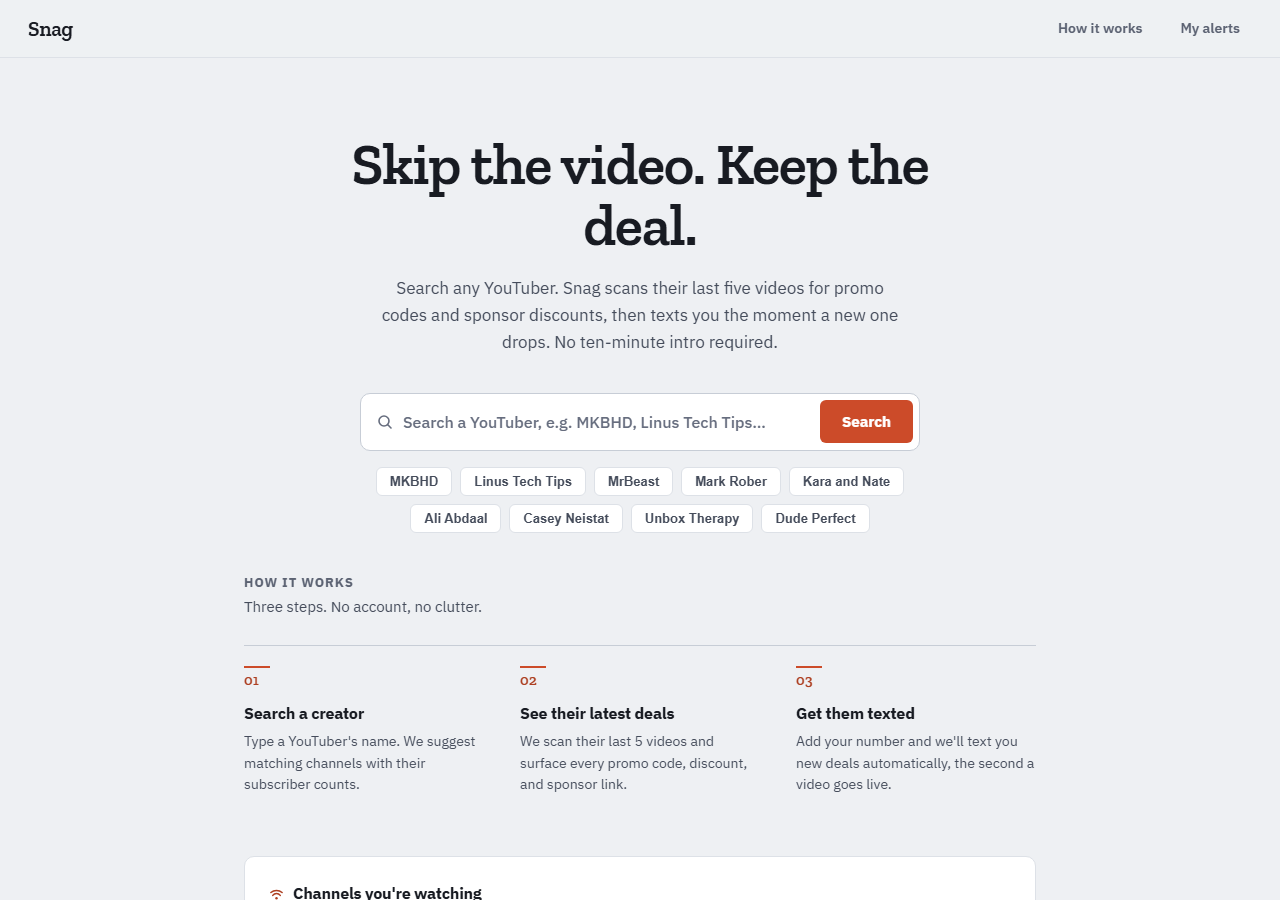
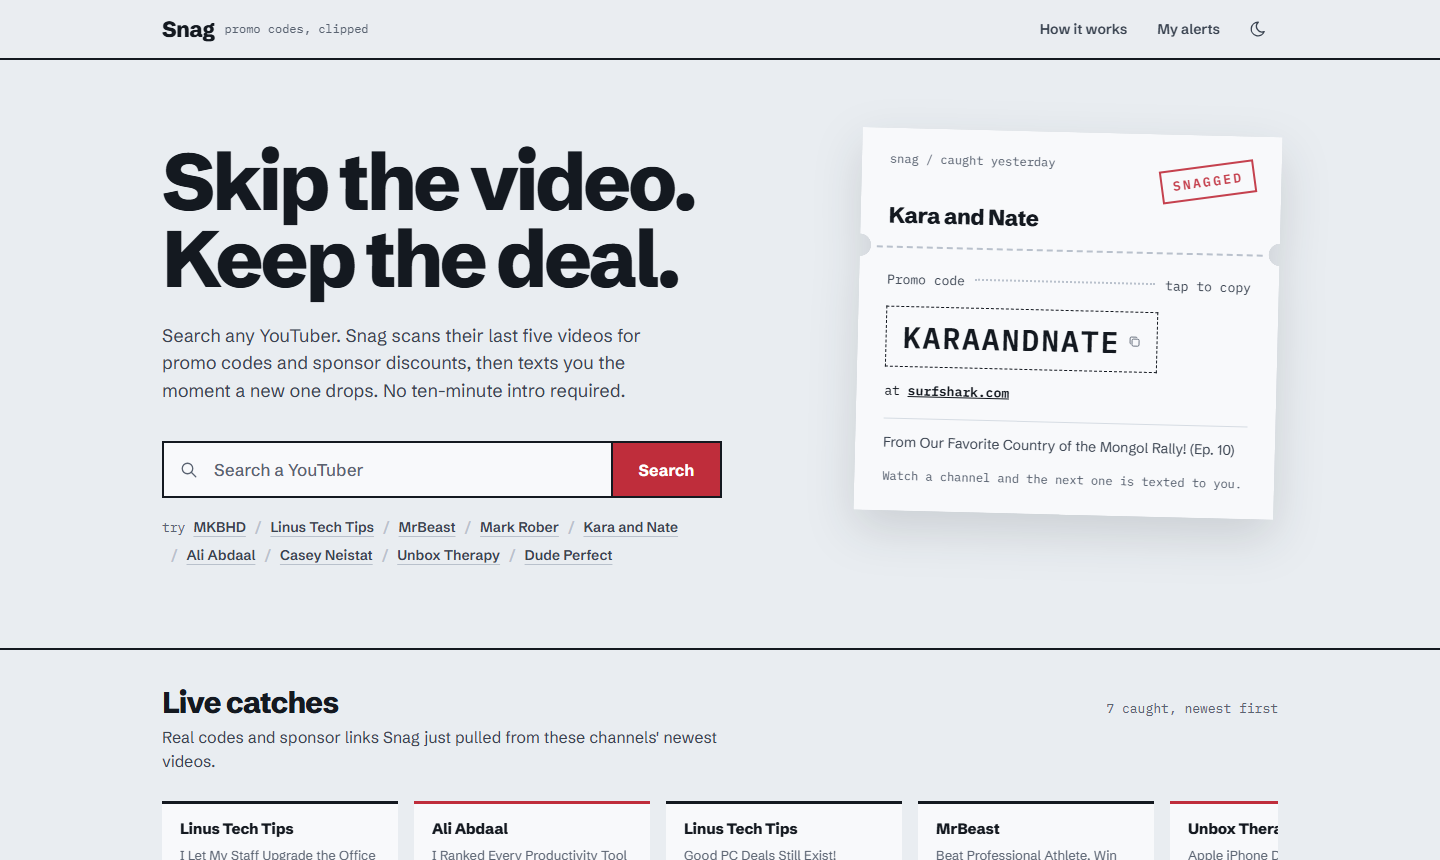
Default to light theme with an opt-in dark toggle; add README screenshots
Dark mode no longer follows the OS setting. A moon/sun button in the nav
switches it and the choice is saved in localStorage. The README gets a
screenshot gallery of the redesigned page.

diff --git a/public/index.html b/public/index.html
@@ -38,29 +38,8 @@
     --ease:cubic-bezier(.2,.8,.2,1);
     color-scheme:light;
   }
-  @media(prefers-color-scheme:dark){:root:not([data-theme="light"]){
-    --paper:#0d1014;
-    --sheet:#171b21;
-    --ink:#e3e7ec;
-    --ink2:#b2bbc6;
-    --muted:#939dab;
-    --rule:#3a4350;
-    --rule-soft:#272e37;
-    --stamp:#f0717c;
-    --stamp-fill:#c22f3d;
-    --stamp-press:#a8283a;
-    --on-stamp:#fff;
-    --good:#6cc596;
-    --good-fill:#2f8a5c;
-    --on-good:#fff;
-    --warn:#e3b55a;
-    --bad:#f08a95;
-    --shadow:0 0 0 1px rgba(160,175,195,.07),0 18px 36px -14px rgba(0,0,0,.7);
-    --toast-bg:#e3e7ec;
-    --toast-ink:#0d1014;
-    --nav-bg:rgba(13,16,20,.92);
-    color-scheme:dark;
-  }}
+  /* Light is the default for everyone. Dark only applies when the visitor
+     picks it with the nav toggle (saved in localStorage as snagTheme). */
   :root[data-theme="dark"]{
     --paper:#0d1014;
     --sheet:#171b21;
@@ -111,6 +90,11 @@
   .brand-tag{font-family:var(--mono);font-size:12px;color:var(--muted)}
   .nav-link{font-size:14px;font-weight:600;color:var(--ink2);text-decoration:none;padding:8px 12px;transition:color .15s}
   .nav-link:hover{color:var(--stamp);text-decoration:underline;text-underline-offset:4px}
+  .theme-btn{display:inline-flex;align-items:center;justify-content:center;width:40px;height:40px;background:none;border:0;color:var(--ink2);cursor:pointer;transition:color .15s}
+  .theme-btn:hover{color:var(--stamp)}
+  .theme-btn .sun,[data-theme="dark"] .theme-btn .moon{display:none}
+  [data-theme="dark"] .theme-btn .sun{display:block}
+  @media (pointer:coarse){.theme-btn{width:44px;height:44px}}
 
   /* HERO: asymmetric. Words and the search on the left; on the right, a real
      coupon Snag pulled from a real video description. */
@@ -519,6 +503,7 @@
     .hist-group-vid,.hist-group-vid:visited{padding-block:10px;margin-block:-4px -10px}
   }
 </style>
+<script>try{if(localStorage.getItem("snagTheme")==="dark")document.documentElement.dataset.theme="dark"}catch{}</script>
 </head>
 <body>
 
@@ -529,7 +514,19 @@
   </a>
   <a class="nav-link" href="#how">How it works</a>
   <a class="nav-link" href="#watched">My alerts</a>
+  <button type="button" class="theme-btn" id="themeBtn" aria-label="Dark mode" aria-pressed="false">
+    <svg class="moon" width="18" height="18" viewBox="0 0 24 24" fill="none" stroke="currentColor" stroke-width="1.75" stroke-linecap="round" stroke-linejoin="round" aria-hidden="true"><path d="M12 3c.132 0 .263 0 .393 0a7.5 7.5 0 0 0 7.92 12.446a9 9 0 1 1 -8.313 -12.454z"/></svg>
+    <svg class="sun" width="18" height="18" viewBox="0 0 24 24" fill="none" stroke="currentColor" stroke-width="1.75" stroke-linecap="round" stroke-linejoin="round" aria-hidden="true"><path d="M12 12m-4 0a4 4 0 1 0 8 0a4 4 0 1 0 -8 0"/><path d="M3 12h1m8 -9v1m8 8h1m-9 8v1m-6.4 -15.4l.7 .7m12.1 -.7l-.7 .7m0 11.4l.7 .7m-12.1 -.7l-.7 .7"/></svg>
+  </button>
 </nav>
+<script>
+// Theme toggle. The saved choice is applied in <head> before first paint.
+(()=>{const b=document.getElementById("themeBtn"),r=document.documentElement;
+  const sync=()=>b.setAttribute("aria-pressed",String(r.dataset.theme==="dark"));sync();
+  b.addEventListener("click",()=>{const dark=r.dataset.theme!=="dark";
+    if(dark)r.dataset.theme="dark";else delete r.dataset.theme;
+    try{localStorage.setItem("snagTheme",dark?"dark":"light")}catch{}sync();});})();
+</script>
 
 <main>
 

diff --git a/README.md b/README.md
@@ -18,6 +18,18 @@ Find the promo codes and deals buried in YouTube video descriptions, without wat
 
 Snag supports one subscriber phone number per instance.
 
+## Screenshots
+
+| Channel preview | Your alerts and deal history |
+|---|---|
+| ![Channel preview: the last 5 videos of Linus Tech Tips with the deals found in each](docs/channel-preview.png) | ![Watched channels, text alerts, and deal history laid out as saved receipts](docs/alerts-and-history.png) |
+| **How it works** | **Dark mode (opt in from the nav)** |
+| ![A raw video description with the deal phrases underlined, next to the coupon Snag prints from it](docs/how-it-works.png) | ![The homepage in dark mode](docs/dark-mode.png) |
+
+<p align="center"><img src="docs/mobile.png" alt="The homepage on a phone" width="300"></p>
+
+Light is the default. Dark mode only turns on when you pick it with the moon icon in the nav, and the choice is remembered in that browser.
+
 ## Run it locally
 
 Requires [Bun](https://bun.sh).
